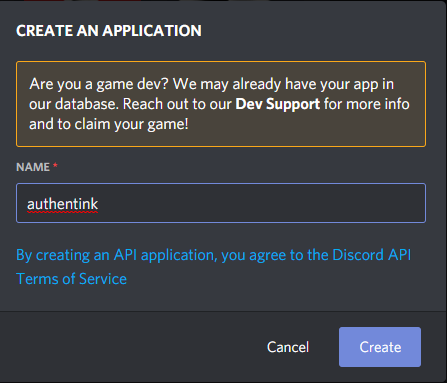
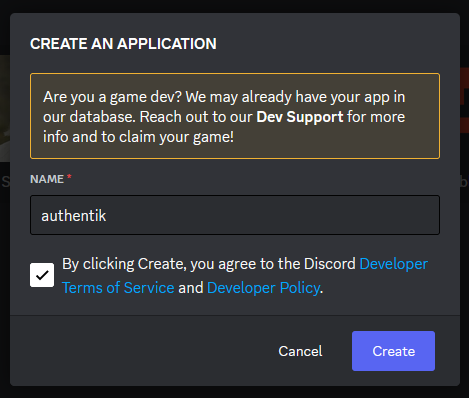
updated images and removed unused one

Changed region(s): [[0.0, 0.0, 1.0, 1.0], [0.5817, 0.8616, 0.698, 0.9191]]

diff --git a/website/integrations/sources/discord/index.md b/website/integrations/sources/discord/index.md
@@ -32,7 +32,7 @@ The following placeholders will be used:
 
 Here is an example of a completed OAuth2 screen for Discord.
 
-![](discord4.png)
+![](discord3.png)
 
 ## authentik
 
@@ -45,7 +45,7 @@ Here is an example of a completed OAuth2 screen for Discord.
 
 Here is an example of a complete authentik Discord OAuth Source
 
-![](discord5.png)
+![](discord4.png)
 
 Save, and you now have Discord as a source.
 
